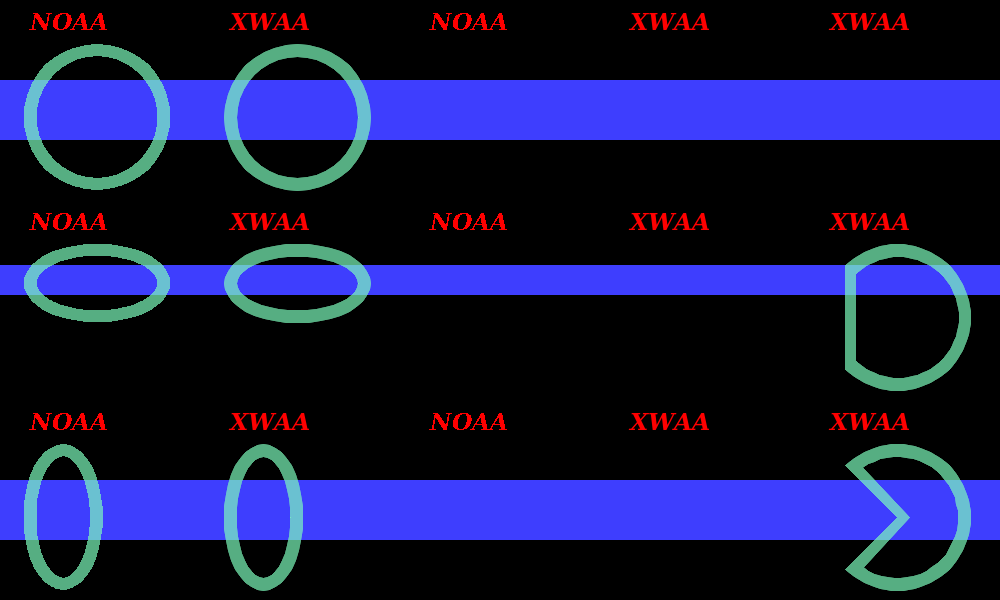
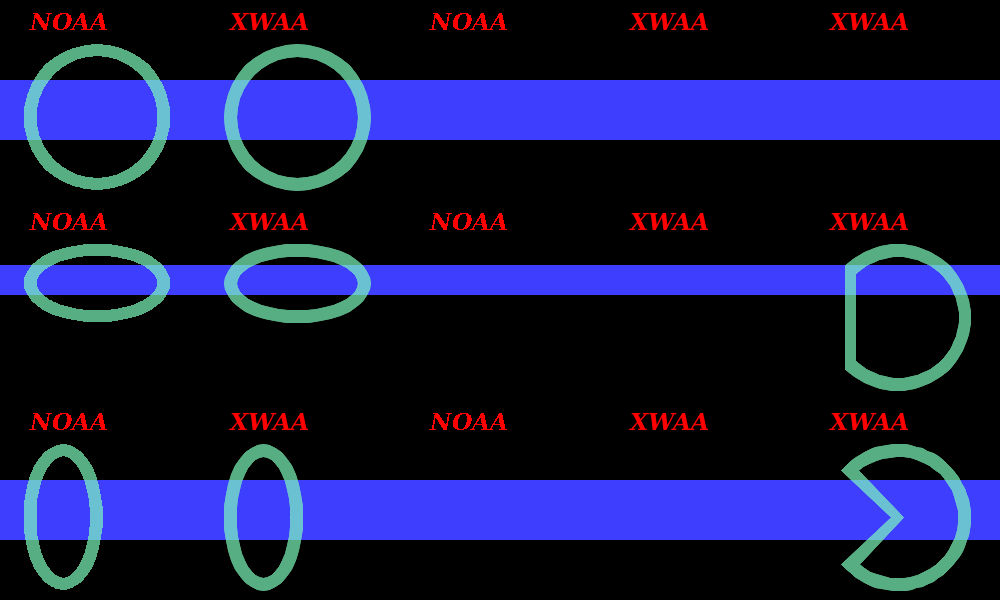
Working on thick ellipse & arc

diff --git a/src/Pt-Gfx/ImagePainter2.cpp b/src/Pt-Gfx/ImagePainter2.cpp
@@ -513,6 +513,7 @@ void ImagePainter2::drawArc( const PointF& topLeft, const SizeF& size, float deg
     if(_rasterizer->pen().style() == Pen::Solid) {
         // Calculate the ellipse's parameters
         const size_t      penSize  = _rasterizer->pen().size();
+        const size_t      penSize2 = penSize / 2;
         const Pt::int32_t radiusXo = ( size.width () + penSize ) / 2;
         const Pt::int32_t radiusYo = ( size.height() + penSize ) / 2;
         const Pt::int32_t radiusXi = ( size.width () - penSize ) / 2;
@@ -529,20 +530,22 @@ void ImagePainter2::drawArc( const PointF& topLeft, const SizeF& size, float deg
             generateArcPoints(points, radiusXi, radiusYi, centerX + shiftX, centerY + shiftY, degBegin, degEnd);
         }
         else if(arcMode == ArcMode::Pie) {
-            // Outer perimeter
-            generateArcPoints(points, radiusXo, radiusYo, centerX, centerY, degBegin, degEnd);
-            points.push_back(Point(centerX, centerY));
-            // Adjust the begin and end angle
+            // Calculate the angle adjustment factor
             const float a = size.width () / 2.0f;
             const float b = size.height() / 2.0f;
             const float c = Gfx::Math::PiMul2 * Gfx::Math::fastSqrt( (a * a + b * b) / 2.0f );
-            const float d = 360.0f * penSize / c;
-            degBegin = (degBegin < 0) ? (degBegin + d) : (degBegin - d);
-            degEnd   = (degEnd   < 0) ? (degEnd   + d) : (degEnd   - d);
+            const float d = 360.0f * penSize2 / c;
+            // Outer perimeter
+            const float odegBegin = (degBegin < 0) ? (degBegin - d) : (degBegin + d);
+            const float odegEnd   = (degEnd   < 0) ? (degEnd   - d) : (degEnd   + d);
+            generateArcPoints(points, radiusXo, radiusYo, centerX, centerY, odegBegin, odegEnd);
+            points.push_back(Point(round(centerX - shiftX * penSize2), round(centerY - shiftY * penSize2)));
             // Inner perimeter
+            const float idegBegin = (degBegin < 0) ? (degBegin + d) : (degBegin - d);
+            const float idegEnd   = (degEnd   < 0) ? (degEnd   + d) : (degEnd   - d);
             points.push_back(Painter::PolygonSeparatorPoint);
-            generateArcPoints(points, radiusXi, radiusYi, centerX, centerY, degBegin, degEnd);
-            points.push_back(Point(round(centerX + shiftX * penSize), round(centerY + shiftY * penSize)));
+            generateArcPoints(points, radiusXi, radiusYi, centerX, centerY, idegBegin, idegEnd);
+            points.push_back(Point(round(centerX + shiftX * penSize2), round(centerY + shiftY * penSize2)));
         }
         else { // ArcMode::Open
             // ### TODO ###

diff --git a/src/Pt-Gfx/tests/ImagePainterTest2.cpp b/src/Pt-Gfx/tests/ImagePainterTest2.cpp
@@ -59,7 +59,7 @@ using namespace Pt::Gfx;
 
 // Detailed-test enable settings for Pt-Gfx
 #define TEST_SOURCECOPY                         1
-#define TEST_SOURCEOVER                         0
+#define TEST_SOURCEOVER                         1
 
 #define TEST_DRAW_SOLID_LINE_AND_TEXT           0 // (including bezier)
 #define TEST_DRAW_PATTERNED_LINE                0 // (including bezier)
